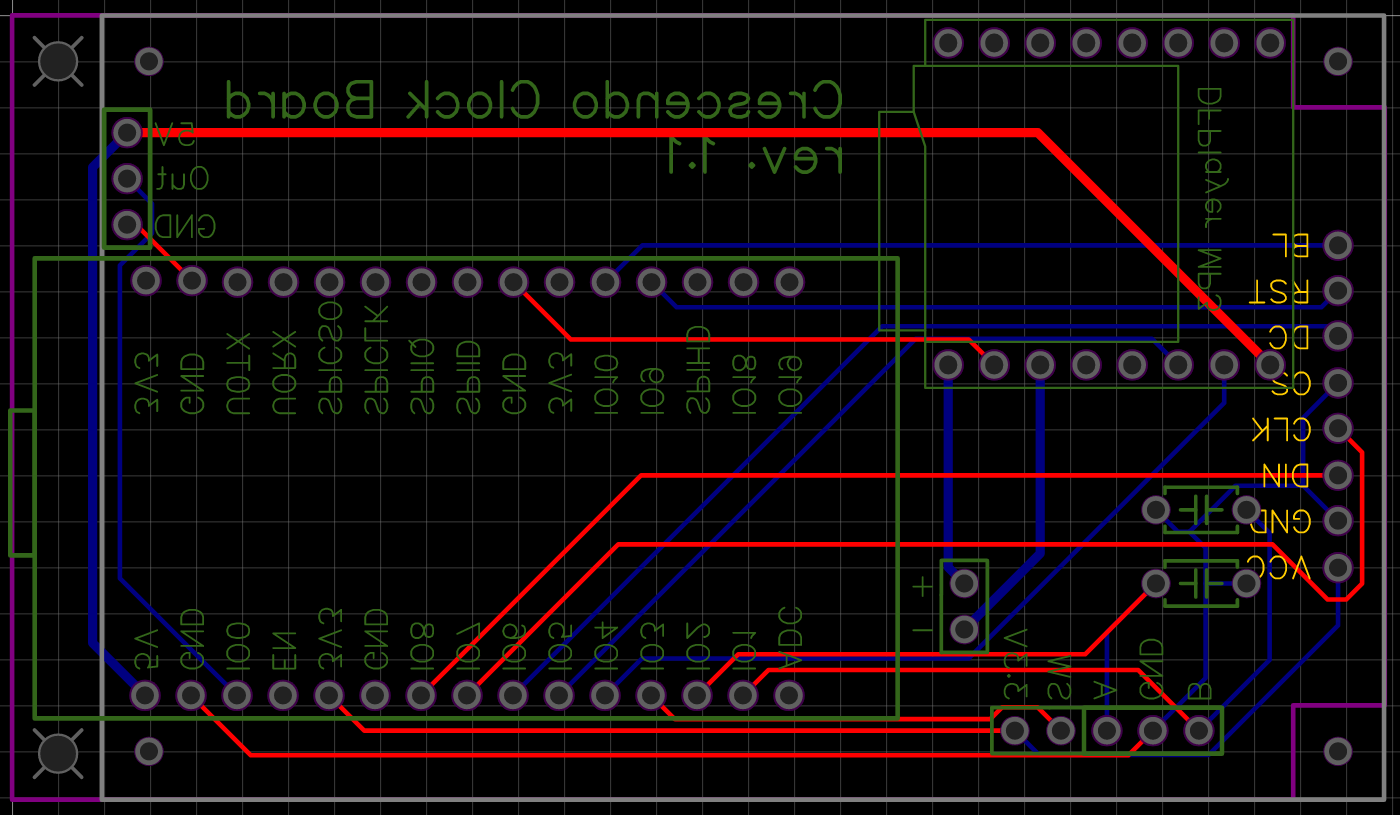
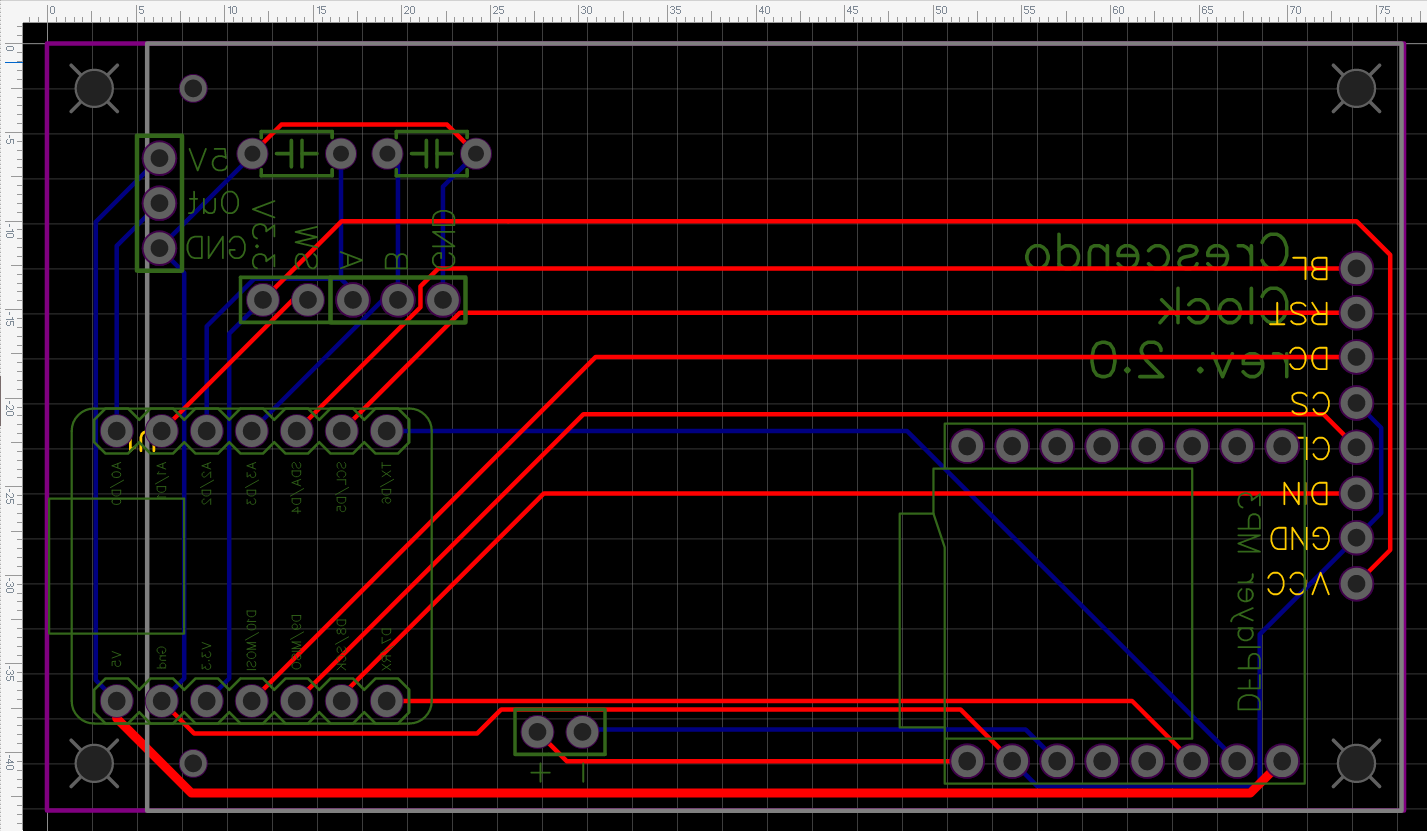
Updated schematics and PCB for new revision 2.0

diff --git a/hardware/README.md b/hardware/README.md
@@ -1,13 +1,14 @@
 # Hardware
 ## Schematics and PCB design
 <p float="left">
-    <img src="pictures/schematic.png" width="40%">
-    <img src="pictures/PCB_design.png" width="40%">
+    <img src="pictures/schematic.png" width="30%">
+    <img src="pictures/PCB_design.png" width="30%">
+    <img src="pictures/board_preview.png" width="30%">
 </p>
 A couple of mentions to design considerations:
 - The capacitors were used in a previous design to add some debouncing. In the current [rotary encoder](https://www.ebay.de/itm/173657244984) used, the board most likely has that already. But it doesn't harm to have them, at least in practice
 - With the exception of some SPI pins for the [display](https://www.waveshare.com/2.4inch-lcd-module.htm) and the fact that the light sensor needs an analog input, which pins to use on the ESP32 board should is actually a very free decision
-- The design was made using EasyEDA and the [created GERBER files](Gerber_PCB_Crescendo_Clock_Board_rev1.1.zip) and the board manufactured by [JLCPCB](https://jlcpcb.com). This is the result:
+- The design was made using EasyEDA and the [created GERBER files](Gerber_PCB_Crescendo_Clock_Board_rev2.0.zip) and the board manufactured by [JLCPCB](https://jlcpcb.com). This is the result:
 
 <img src="pictures/board.jpg" width="40%">
 
